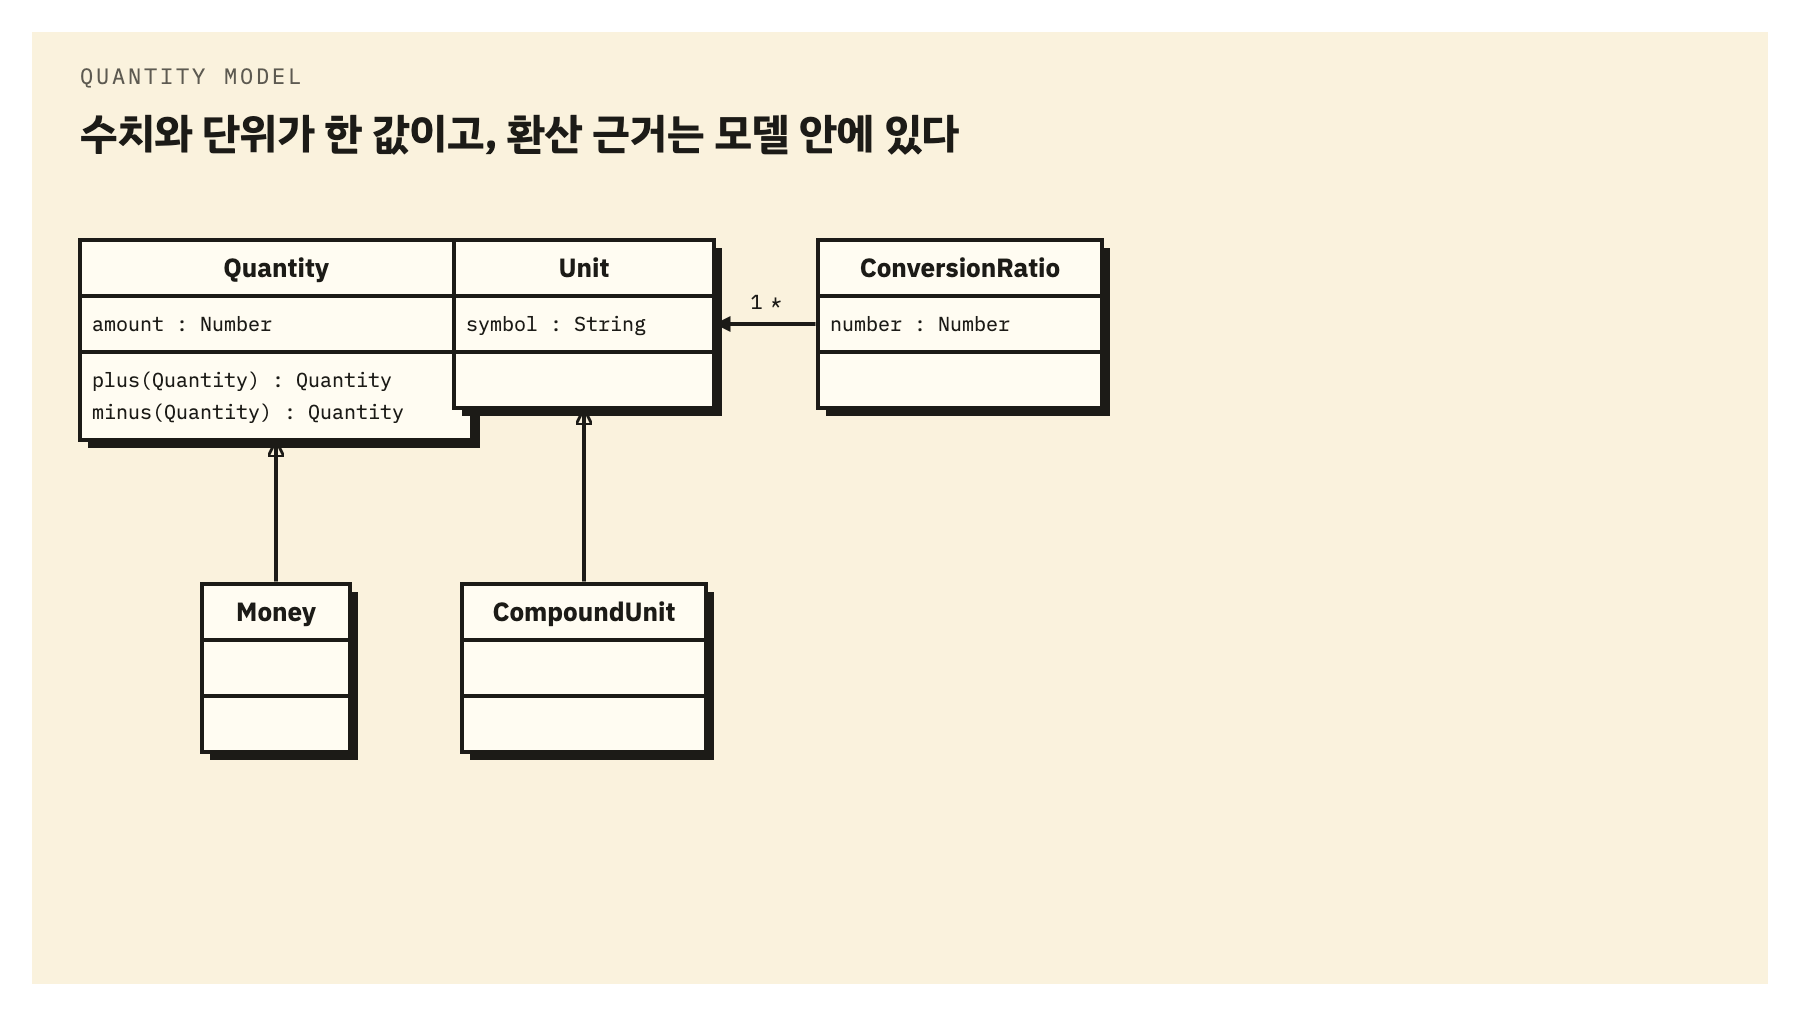
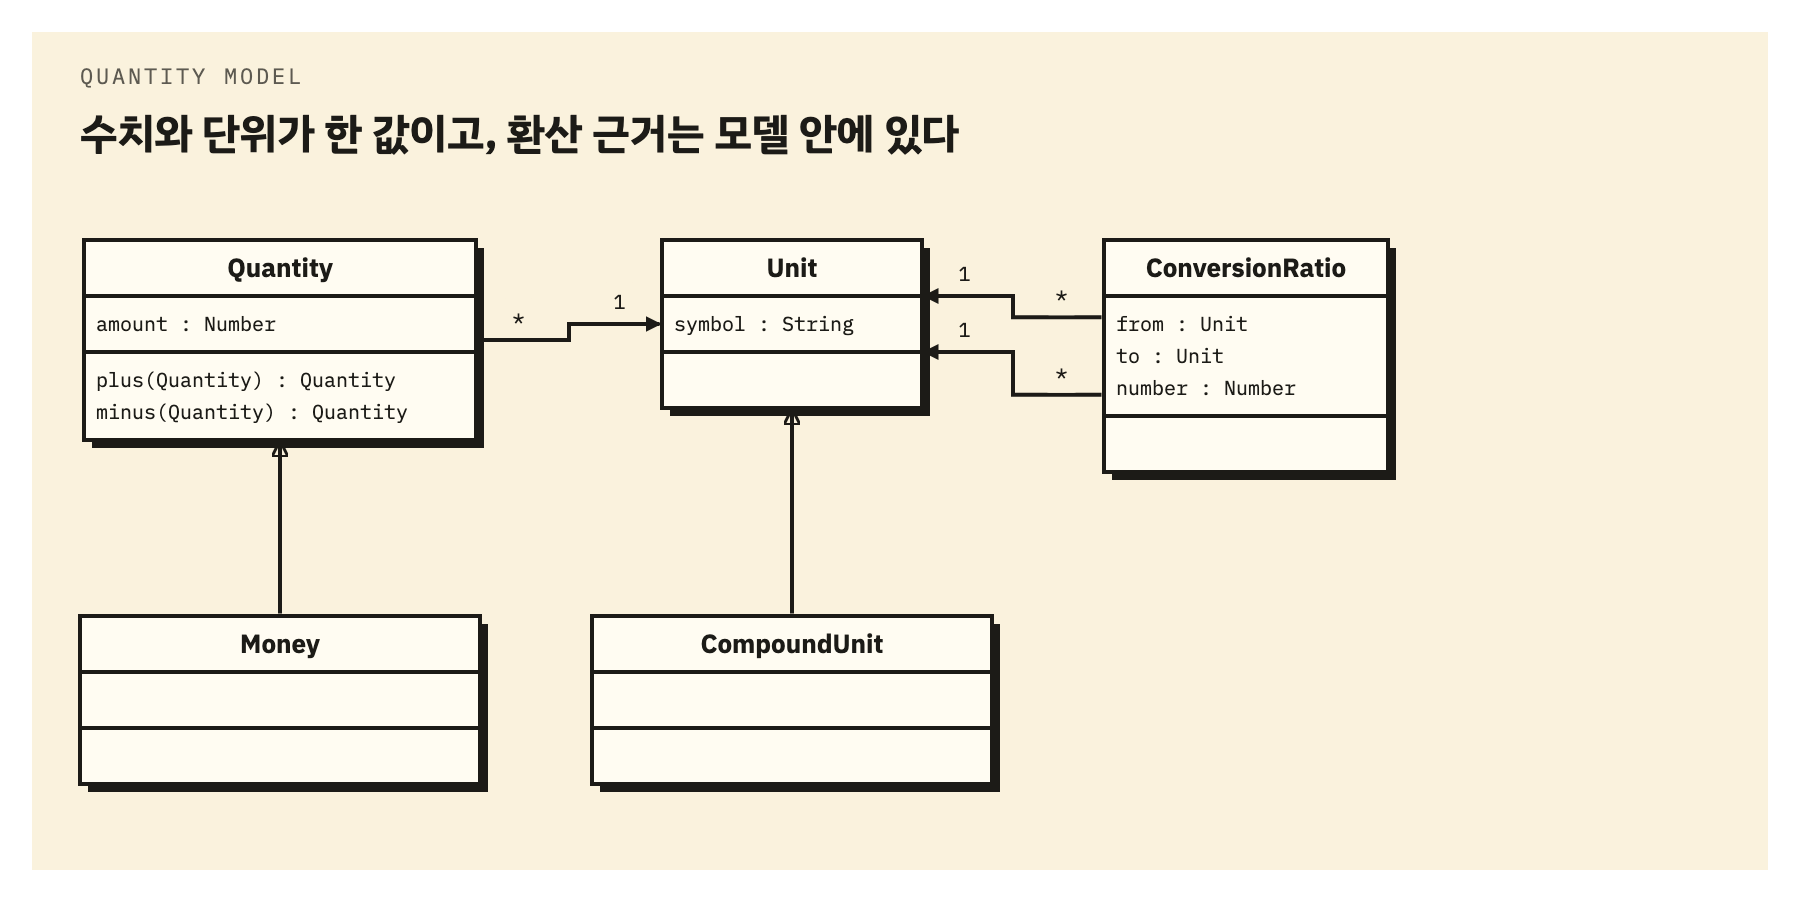
gate: Strategy 파일럿 PASS — 발행 상태·기준 예시 등록·게이트 기록
- 기계 검사 3모드 통과 · 루브릭 MUST 38/38 · SHOULD 미흡 0, 2라운드 만에 통과
- exemplars.gof-guide 등록

diff --git a/pattern-guide/ddd-analysis-pattern-guide/quantity/diagrams/QuantityModel.tsx b/pattern-guide/ddd-analysis-pattern-guide/quantity/diagrams/QuantityModel.tsx
@@ -11,16 +11,26 @@ import { DomainModel, type DomainModelSpec } from '../../../../viz/frame/domain-
 
 const W = 912;
 
+// 하위 칸의 `width` 는 **열 간격을 벌리려고** 손으로 고정한 것이다. 배치는 부모 칸을 자식 칸
+// 중심 위에 놓는데(domain-model.tsx 의 min/max 중점 규칙), Money 나 CompoundUnit 처럼 좁은 칸
+// 위에 넓은 부모가 앉으면 부모가 옆 열까지 비어져 나와 Quantity 와 Unit 이 겹쳤다(실측 —
+// 이전 판 PNG 에서 두 칸이 맞붙어 연관선과 다중도가 보이지 않았다). 두 열을 같은 폭으로 두면
+// 부모끼리 통로가 생기고, 그 통로가 `*` `1` 라벨이 앉을 자리가 된다.
+const LEAF_W = 200;
+
 const SPEC: DomainModelSpec = {
   entities: [
     { id: 'quantity', name: 'Quantity', attributes: ['amount : Number'], methods: ['plus(Quantity) : Quantity', 'minus(Quantity) : Quantity'] },
     { id: 'unit', name: 'Unit', attributes: ['symbol : String'] },
-    { id: 'ratio', name: 'ConversionRatio', attributes: ['number : Number'] },
-    { id: 'compound', name: 'CompoundUnit' },
-    { id: 'money', name: 'Money' },
+    // from·to 는 Figure 3.3 에서 Unit 으로 가는 두 연관의 끝이다. 선 둘과 짝을 맞춰 적는다.
+    { id: 'ratio', name: 'ConversionRatio', attributes: ['from : Unit', 'to : Unit', 'number : Number'] },
+    { id: 'compound', name: 'CompoundUnit', width: LEAF_W },
+    { id: 'money', name: 'Money', width: LEAF_W },
   ],
   relations: [
     { from: 'quantity', to: 'unit', kind: 'association', fromCard: '*', toCard: '1' },
+    // Figure 3.3 의 Unit 은 from 쪽으로도 to 쪽으로도 비율에 걸린다 — 연관이 하나가 아니라 둘이다.
+    { from: 'ratio', to: 'unit', kind: 'association', fromCard: '*', toCard: '1' },
     { from: 'ratio', to: 'unit', kind: 'association', fromCard: '*', toCard: '1' },
     { from: 'compound', to: 'unit', kind: 'inheritance' },
     { from: 'money', to: 'quantity', kind: 'inheritance' },
@@ -29,7 +39,7 @@ const SPEC: DomainModelSpec = {
 
 export default function QuantityModel() {
   return (
-    <Canvas width={W} height={500}>
+    <Canvas width={W} height={440}>
       <DiagramHeader eyebrow="Quantity model" title="수치와 단위가 한 값이고, 환산 근거는 모델 안에 있다" />
       <DomainModel spec={SPEC} origin={{ x: GUTTER, y: 104 }} />
     </Canvas>

diff --git a/pattern-guide/design-pattern-guide/strategy/strategy-guide_v1.0.0.html b/pattern-guide/design-pattern-guide/strategy/strategy-guide_v1.0.0.html
@@ -1,5 +1,5 @@
 <!doctype html>
-<!-- guide-fp:8f29aec1839a5776d26b9039cce0e145fbe30db2bf6341cb964ba1e04e88758a -->
+<!-- guide-fp:77482b53812aac979d8f09a621ae9f59fce40ab71d45e786fa36643a5a79fc7b -->
 <html lang="ko">
 <head>
 <meta charset="utf-8">
@@ -458,7 +458,7 @@ slug: strategy
 spec: gof-guide
 spec_version: 1.2.0
 version: 1.0.0
-status: draft
+status: published
 date: 2026-09-20</p>
 <hr>
 <h1 id="strategy--바뀌는-계산은-객체로-떼어-내고-고르는-일은-바깥에-맡기기">Strategy — 바뀌는 계산은 객체로 떼어 내고, 고르는 일은 바깥에 맡기기</h1>

diff --git a/pattern-guide/ddd-analysis-pattern-guide/quantity/quantity-guide_v1.0.0.md b/pattern-guide/ddd-analysis-pattern-guide/quantity/quantity-guide_v1.0.0.md
@@ -50,7 +50,7 @@ ConversionRatio   from kg ──▶ to g,  number = 1000
                   kg → g 로 옮길 때는 × 1000,  g → kg 로 옮길 때는 ÷ 1000
 ```
 
-- **Quantity** — 수치(amount)와 단위(unit)를 묶은 값입니다. 다른 Quantity 와 만나는 연산과 비교를 스스로 수행하면서 두 값의 단위를 확인하고, 결과를 새 Quantity 로 돌려줄 책임을 집니다. Unit 하나를 가리키고, 단위가 다르면 ConversionRatio 를 찾아 협력해요. 원서 그림은 `amount: Number`, `units: Unit` 과 연산 `+ - * / = > <` 를 적어 둡니다(Figure 3.2). 곱하기 가운데 보통의 수를 곱하는 계산은 단위를 그대로 두고, m 를 s 로 나누면 m/s 가 되듯 Quantity 끼리 곱하거나 나누면 결과 단위가 새로 생깁니다.
+- **Quantity** — 수치(amount)와 단위(unit)를 묶은 값입니다. 다른 Quantity 와 만나는 연산과 비교를 스스로 수행하면서 두 값의 단위를 확인하고, 결과를 새 Quantity 로 돌려줄 책임을 집니다. Unit 하나를 가리키고, 이 가이드의 모델에서는 단위가 다르면 ConversionRatio 를 찾아 협력해요. 협력까지가 패턴의 요구는 아닙니다 — Fowler 는 [eaaDev Quantity](https://martinfowler.com/eaaDev/Quantity.html) 에서 단순한 구현은 단위가 다른 덧셈을 거부하고 환산은 호출자에게 맡긴다고 적습니다. 최소 조건에서는 [선택] 5 예요. 원서 그림은 `amount: Number`, `units: Unit` 과 연산 `+ - * / = > <` 를 적어 둡니다(Figure 3.2). 곱하기 가운데 보통의 수를 곱하는 계산은 단위를 그대로 두고, m 를 s 로 나누면 m/s 가 되듯 Quantity 끼리 곱하거나 나누면 결과 단위가 새로 생깁니다.
 - **Unit** — 수치를 무엇으로 셌는지 나타냅니다. 예제에서는 g · kg · L 셋이에요. 두 Quantity 가 같은 단위인지 가르는 기준이고, 사람에게 보일 기호를 갖습니다. 여러 Quantity 가 같은 Unit 하나를 가리키고, Unit 은 ConversionRatio 의 양 끝에 놓입니다.
 - **ConversionRatio** — 원서 §3.2 의 Conversion Ratio 입니다. from 단위 1 이 to 단위로 얼마인지를 수(`number`)로 적어서, 두 단위를 섞어 계산해도 되는 근거가 됩니다. 방향이 있어서 from → to 로 옮길 때는 그 수를 곱하고, to → from 으로 옮길 때는 나눕니다. 원서 그림에서 Unit 하나는 from 쪽으로도 to 쪽으로도 여러 비율에 걸려요(Figure 3.3).
 - **CompoundUnit** — 원서 §3.3 의 합성 단위로, m/s² 처럼 여러 단위에 지수를 붙여 곱한 Unit 의 한 종류입니다. 원서 그림은 구성 단위 참조가 둘 이상이거나, 하나라면 지수가 음수이거나 1보다 커야 한다는 제약을 겁니다(Figure 3.4). 참조 하나에 지수 1 짜리는 원래 단위 하나와 같은 모양이라 합성 단위로 세지 않는 셈이에요. Quantity 끼리 곱하거나 나눈 결과의 단위가 이 개념으로 표현됩니다.
@@ -149,7 +149,7 @@ record Post(PostId id, long viewCount) {
    - 빠지면 둘 중 하나가 생깁니다. `add` 가 자기 수치를 바꾸는데 복사도 하지 않으면, 레시피 1회분 100 g 객체를 두 재고가 함께 쓰는 순간 한쪽 계산이 레시피 값까지 바꿉니다. Fowler 가 aliasing bug 라고 부르는 문제예요. 같음을 객체 참조로 판정하면 똑같이 2.5 kg 인 두 객체가 다르다고 나옵니다.
 4. [선택] **표현이 같아야 같은 값으로 본다** — 같은 값 판정이 환산을 거치지 않아서, 2.5 kg 과 2500 g 은 크기가 같아도 다른 값입니다. 대신 2.50 kg 과 2.5 kg 처럼 표기만 다른 것은 하나로 맞춰 둡니다. (근거: 이 가이드의 정책 — 장부와 실사 기록을 대조할 때 단위까지 같은지 보려는 예제 요구이고, 상황 설정의 전제로 적었습니다) 환산해서 크기로 같음을 보는 쪽을 골라도 조건 3 은 그대로 충족합니다. 그때는 크기 비교와 값 같음이 한 판정으로 합쳐지고, 단위가 다른 두 기록이 같은 값으로 지나갑니다.
 5. [선택] **환산 규칙을 모델에 둔다** — 단위를 바꾸는 계산이 모델이 가진 근거를 거쳐서 일어납니다. 원서는 그 근거를 방향이 있는 비율(Conversion Ratio)로 두고, Fowler 튜토리얼 슬라이드의 `as(Unit)` 연산이 그 비율로 단위를 바꿉니다. 이 조건이 없으면 단위가 다른 양을 만났을 때 조건 2 에 따라 거부할 수밖에 없어요.
-6. [선택] **자릿수와 반올림 규칙을 값이 안다** — 수치가 가질 수 있는 소수 자리와 그 자리를 넘을 때의 처리(거부 또는 반올림)가 Quantity 쪽에 있습니다. Money 에서는 통화의 최소 단위가 이 규칙입니다.
+6. [선택] **자릿수와 반올림 규칙을 값이 안다** — 수치가 가질 수 있는 소수 자리와 그 자리를 넘을 때의 처리(거부 또는 반올림)가 Quantity 쪽에 있습니다. Money 에서는 자릿수 쪽을 통화의 최소 단위가 정하고, 언제 어떤 방식으로 반올림할지는 업무가 따로 정합니다.
 7. [선택] **CompoundUnit 으로 단위를 합성한다** — 양끼리 곱하거나 나눈 결과를 m/s² 같은 단위로 표현합니다.
 8. [선택] **문자열로 읽고 쓴다** — Fowler 튜토리얼 슬라이드의 `valueOf(String)` 과 `toString()` 처럼 `0.3 kg` 같은 표기와 값을 오갈 수 있습니다.
 
@@ -158,9 +158,9 @@ record Post(PostId id, long viewCount) {
 | 비교 대상 | 구분 기준 | Quantity 를 고르면 얻는 것 | 포기하는 것 |
 | --- | --- | --- | --- |
 | 원시 숫자 필드(Primitive Obsession) | 단위가 값 안에 있는가, 이름·주석에만 있는가 | 단위가 섞인 계산을 연산이 막고, 확인 코드가 한 곳에 모인다 | 타입 하나가 늘고, 단위가 섞이는 도메인이면 환산 규칙도 관리해야 한다 |
-| 단위를 들고만 있는 래퍼 | 연산이 상대의 단위를 읽고 판단하는가 | 단위가 맞지 않는 계산을 값이 거부한다 | 연산마다 단위 확인 코드가 들어간다. 래퍼는 이 코드를 아낀 대가로 틀린 합을 낸다 |
+| 단위를 들고만 있는 래퍼 | 호환되지 않는 단위의 산술을 값이 막는가(거부하든 환산하든) | 단위가 맞지 않는 계산을 값이 거부한다 | 연산마다 단위 확인 코드가 들어간다. 래퍼는 이 코드를 아낀 대가로 틀린 합을 낸다 |
 | Measurement | 대상과 측정 항목을 가진 기록 계층이 필요한가 | 값만 필요한 자리(재고·가격)에 기록 계층 없이 쓴다 | 대상·항목 기록은 없다. 필요하면 Measurement 가 Quantity 를 속성으로 품는다 |
-| Money | 단위가 통화이고 통화별 자릿수·반올림 규칙이 붙는가 | 질량·부피·금액이 같은 연산 규칙을 공유한다 | 통화의 최소 단위 반올림 같은 규칙은 따로 얹어야 한다 |
+| Money | 단위가 통화이고 통화마다 정해진 자릿수가 붙는가 | 질량·부피·금액이 같은 연산 규칙을 공유한다 | 반올림 시점·방식 같은 업무 규칙은 그 위에 따로 얹어야 한다 |
 
 **원시 숫자 필드와의 차이.** 구분 기준은 단위가 어디에 있느냐입니다. 원시 필드는 단위를 이름과 주석에 두고, Quantity 는 값 안에 둡니다. Fowler 는 문자열 같은 흔한 원시 타입을 알맞은 값 객체로 바꾸는 편이 대개 좋다고 적고, 이점으로 타입 검사와 한곳에 모인 검증을 듭니다([Value Object](https://martinfowler.com/bliki/ValueObject.html)). Quantity 를 고르면 단위 확인이 연산 한 곳에 모이고, 대신 타입 하나와 환산 규칙을 관리해야 합니다.
 
@@ -180,7 +180,7 @@ class Quantity {
 
 단위는 kg 로 맞았는데 0 이어야 할 수치가 음수로 남습니다(node 로 실행해 확인). `number` 는 IEEE 754(2진 부동소수점 표준) 배정밀도입니다([MDN Number](https://developer.mozilla.org/en-US/docs/Web/JavaScript/Reference/Global_Objects/Number)). 0.1 은 1/10 이고 분모 10 = 2 × 5 에 5 가 들어 있는데, 2진 소수로 유한하게 적을 수 있는 수는 분모가 2의 거듭제곱인 분수뿐이라 0.1 은 가장 가까운 2진수로 반올림된 채 저장돼요. 반대로 원시 필드라도 정수 그램이나 10진 타입으로 들면 이 오차는 생기지 않습니다. 이 글의 구현이 `BigDecimal`·`bigint`·`i64` 를 고른 것은 패턴과 별개인 예제의 결정이고, Quantity 가 보태는 것은 그 결정을 값 한 곳에서 내릴 자리입니다.
 
-**단위를 들고만 있는 래퍼와의 차이.** 구분 기준은 연산이 상대의 단위를 읽고 판단하는가입니다. 단위 필드가 있다는 것만으로는 판정이 나지 않아요. 아래 코드는 단위를 저장하지만 계산에서는 읽지 않습니다.
+**단위를 들고만 있는 래퍼와의 차이.** 구분 기준은 호환되지 않는 단위의 산술을 값이 막는가입니다. 막는 방법이 거부든 환산이든 상관없고, 단위 필드가 있다는 것만으로는 판정이 나지 않아요. 아래 코드는 단위를 저장하지만 계산에서는 읽지 않습니다.
 
 ```java no-compile
 record Weight(double value, String unit) {
@@ -205,7 +205,7 @@ Measurement    환자 A · 수축기 혈압 · 120 mmHg
 
 재고 보유량이나 가격처럼 값만 필요한 자리에서는 Quantity 만으로 충분합니다. 대상과 항목을 함께 기록해야 하면 Quantity 를 버리는 것이 아니라 그 위에 Measurement 한 층을 얹어요. 측정 시각이나 잘못 잰 값의 처리는 원서가 §3.8 Dual Time Record 와 §3.9 Rejected Observation 에서 따로 다룹니다.
 
-**Money 와의 차이.** 구분 기준은 단위 자리가 통화이고 통화마다 정해진 자릿수와 반올림 규칙이 붙는가입니다. Fowler 튜토리얼 슬라이드는 Money 를 Quantity 의 한 종류로 적고, PoEAA 는 통화가 다른 금액을 더하는 문제와 반올림으로 잔돈을 잃는 문제를 들어 Money 를 따로 다룹니다([Money](https://martinfowler.com/eaaCatalog/money.html)). 금액까지 한 Quantity 타입으로 다루면 질량·부피·금액이 같은 연산 규칙을 공유하지만, 원 단위 반올림 같은 통화 규칙은 그 위에 따로 얹어야 해요. Money 를 별도 타입으로 두면 통화 규칙을 그 타입 한 곳에 모으기 쉽고, 공통 연산은 위임 같은 방법으로 나눠 씁니다. 질량과 금액을 섞는 실수를 실행 중에 거부할지 컴파일 단계에서 막을지는 이 선택과 별개예요. 환산 비율도 성격이 다릅니다. kg → g 은 한 번 정하면 바뀌지 않지만 환율은 시점마다 바뀌어서, 금액끼리 통화를 맞출 때는 고정 비율 표가 아니라 그 시점의 비율을 찾아야 해요(상황이 달라지면 표 4행).
+**Money 와의 차이.** 구분 기준은 단위 자리가 통화이고 통화마다 정해진 자릿수가 붙는가입니다. 반올림은 통화가 정해 주지 않고 업무가 고르는 정책이라 구분 기준에서 뺐어요. Fowler 튜토리얼 슬라이드는 Money 를 Quantity 의 한 종류로 적고, PoEAA 는 통화가 다른 금액을 더하는 문제와 반올림으로 잔돈을 잃는 문제를 들어 Money 를 따로 다룹니다([Money](https://martinfowler.com/eaaCatalog/money.html)). 금액까지 한 Quantity 타입으로 다루면 질량·부피·금액이 같은 연산 규칙을 공유하지만, 원 단위 반올림 같은 업무 규칙은 그 위에 따로 얹어야 해요. Money 를 별도 타입으로 두면 통화 자릿수와 업무가 고른 반올림 규칙을 그 타입 한 곳에 모으기 쉽고, 공통 연산은 위임 같은 방법으로 나눠 씁니다. 질량과 금액을 섞는 실수를 실행 중에 거부할지 컴파일 단계에서 막을지는 이 선택과 별개예요. 환산 비율도 성격이 다릅니다. kg → g 은 한 번 정하면 바뀌지 않지만 환율은 시점마다 바뀌어서, 금액끼리 통화를 맞출 때는 고정 비율 표가 아니라 그 시점의 비율을 찾아야 해요(상황이 달라지면 표 4행).
 
 ## 구현 예시
 
@@ -865,7 +865,7 @@ fn main() -> Result<(), String> {
 
 | 코드의 배치 | 바꾼 배치 | 어긋나는 칸 | 어느 동작에서 어떤 잘못된 변경이 가능해지는가 |
 | --- | --- | --- | --- |
-| 재료 카탈로그를 `IngredientId` 로 가리킨다 | 재료 객체를 `IngredientStock` 필드로 든다 | 타 aggregate 참조 방식 | 입고 처리 작업 하나가 `stock.ingredient` 를 거쳐 포대 무게를 25 kg 으로 고칠 수 있게 됩니다. 재고의 입고와 카탈로그 변경이 한 작업에 섞이고, 그 재료를 쓰는 다른 재고들의 다음 입고 환산까지 바뀌어요. id 참조여도 카탈로그를 저장소로 불러와 바꿀 수는 있지만, 재고 객체를 거쳐 바꾸는 길은 없어서 그 변경이 카탈로그 쪽 작업으로 따로 드러납니다 |
+| 재료 카탈로그를 `IngredientId` 로 가리킨다 | 재료 객체를 `IngredientStock` 필드로 든다 | 타 aggregate 참조 방식 | 재료 카탈로그가 재료마다 한 포대의 무게를 갖는다고 쳐 봅시다(「상황이 달라지면」 3행의 전제이고, 이 코드에는 없습니다). 입고 처리 작업 하나가 `stock.ingredient` 를 거쳐 그 무게를 25 kg 으로 고칠 수 있게 됩니다. 재고의 입고와 카탈로그 변경이 한 작업에 섞이고, 그 재료를 쓰는 다른 재고들의 다음 입고 환산까지 바뀌어요. id 참조여도 카탈로그를 저장소로 불러와 바꿀 수는 있지만, 재고 객체를 거쳐 바꾸는 길은 없어서 그 변경이 카탈로그 쪽 작업으로 따로 드러납니다 |
 | ConversionRatio 는 모든 Quantity 가 조회하는 공유 상수 표다 | `IngredientStock` 마다 비율 목록을 필드로 갖고 연산 때 Quantity 에 넘긴다 | root·entity·VO 배정 | 분점 재고를 만들 때 kg → g 비율을 100 으로 잘못 넣으면 같은 0.3 kg 입고가 본점에는 300 g, 분점에는 30 g 으로 기록됩니다. 재고 밖의 레시피 배치 작업이 만든 Quantity 는 비율 목록이 없어 kg 와 g 를 더하지도 못해요 |
 | Quantity 는 불변 값으로 주고받는다 | 레시피 aggregate 의 1회분 Quantity 를 가변 객체로 두고 재고가 같은 객체를 받는다 | 타 aggregate 참조 방식, root·entity·VO 배정 | 재고 `consume` 이 받은 객체를 제자리에서 줄이면 레시피 aggregate 의 1회분 50 g 이 바뀝니다. 레시피 root 는 불리지 않았으니 레시피 규칙 검사도 없이 다음 배치의 사용량이 달라져요 |
 

diff --git a/pattern-guide/design-pattern-guide/strategy/strategy-guide_v1.0.0.md b/pattern-guide/design-pattern-guide/strategy/strategy-guide_v1.0.0.md
@@ -4,7 +4,7 @@ slug: strategy
 spec: gof-guide
 spec_version: 1.2.0
 version: 1.0.0
-status: draft
+status: published
 date: 2026-09-20
 ---
 
